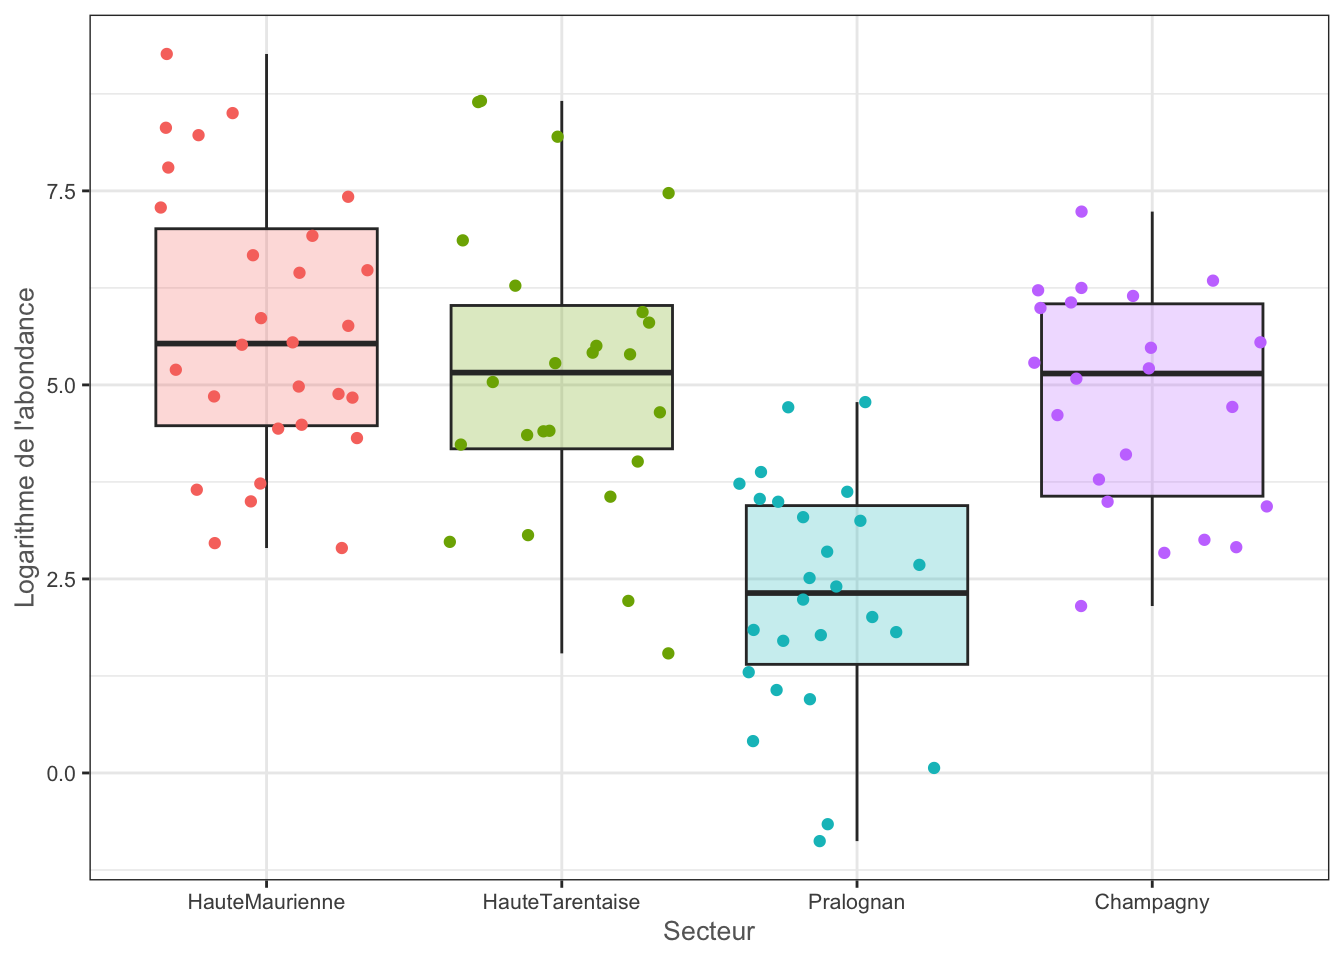
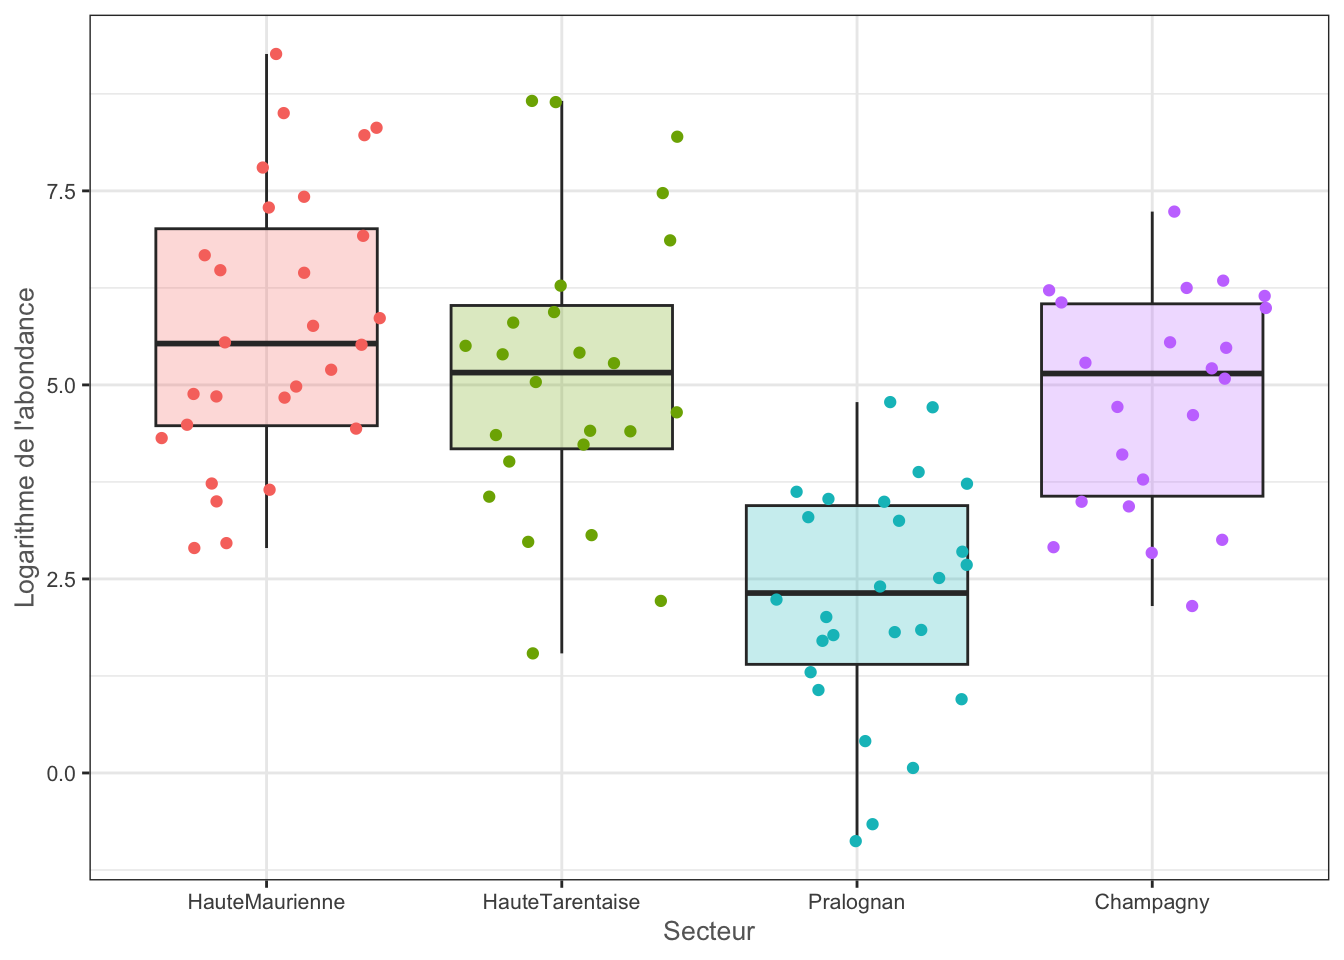
Cours Agroecologie : mise a jour du lien de regression logistique

diff --git a/docs/teaching/intro-analyse-multivariee/Lecture1_RegMulti.html b/docs/teaching/intro-analyse-multivariee/Lecture1_RegMulti.html
@@ -1188,22 +1188,22 @@ Call:
 lm(formula = y ~ x2 + x3 + x4 + x5)
 
 Residuals:
-     Min       1Q   Median       3Q      Max 
--2.82314 -0.80455  0.00918  0.70815  2.79053 
+    Min      1Q  Median      3Q     Max 
+-2.0075 -0.6926 -0.0492  0.6774  2.1740 
 
 Coefficients:
             Estimate Std. Error t value Pr(&gt;|t|)    
-(Intercept) -0.01947    0.11909  -0.163    0.870    
-x2           0.48523    1.65335   0.293    0.770    
-x3           0.82374    0.82305   1.001    0.319    
-x4           0.94394    0.13220   7.140 1.86e-10 ***
-x5           0.24606    0.82286   0.299    0.766    
+(Intercept)  0.11125    0.10460   1.064    0.290    
+x2           0.03309    1.47362   0.022    0.982    
+x3           0.43824    0.73541   0.596    0.553    
+x4           0.82308    0.10723   7.676 1.44e-11 ***
+x5           0.48418    0.72964   0.664    0.509    
 ---
 Signif. codes:  0 '***' 0.001 '**' 0.01 '*' 0.05 '.' 0.1 ' ' 1
 
-Residual standard error: 1.143 on 95 degrees of freedom
-Multiple R-squared:  0.7317,    Adjusted R-squared:  0.7204 
-F-statistic: 64.76 on 4 and 95 DF,  p-value: &lt; 2.2e-16</code></pre>
+Residual standard error: 1.009 on 95 degrees of freedom
+Multiple R-squared:  0.6918,    Adjusted R-squared:  0.6788 
+F-statistic: 53.31 on 4 and 95 DF,  p-value: &lt; 2.2e-16</code></pre>
 </div>
 </div>
 <p>Seule la variable <span class="math inline">\(x_4\)</span> est déclarée pertinente. Les <span class="math inline">\(p\)</span>-valeurs des tests concernant les variables <span class="math inline">\(x_2\)</span> et <span class="math inline">\(x_3\)</span> sont élevées : nous les éliminerions donc à tord. Elles sont “cachées” par <span class="math inline">\(x_4\)</span>.</p>
@@ -1219,21 +1219,21 @@ Call:
 lm(formula = y ~ x2 + x3 + x4)
 
 Residuals:
-    Min      1Q  Median      3Q     Max 
--2.8234 -0.8074  0.0002  0.7005  2.7870 
+     Min       1Q   Median       3Q      Max 
+-2.01343 -0.69926 -0.04555  0.66989  2.14298 
 
 Coefficients:
             Estimate Std. Error t value Pr(&gt;|t|)    
-(Intercept) -0.01364    0.11692  -0.117    0.907    
-x2           0.97864    0.10440   9.374 3.29e-15 ***
-x3           1.06773    0.10727   9.954  &lt; 2e-16 ***
-x4           0.94012    0.13095   7.179 1.48e-10 ***
+(Intercept)  0.12078    0.10331   1.169    0.245    
+x2           1.00901    0.09311  10.836  &lt; 2e-16 ***
+x3           0.92109    0.10643   8.654 1.15e-13 ***
+x4           0.82923    0.10652   7.785 8.08e-12 ***
 ---
 Signif. codes:  0 '***' 0.001 '**' 0.01 '*' 0.05 '.' 0.1 ' ' 1
 
-Residual standard error: 1.137 on 96 degrees of freedom
-Multiple R-squared:  0.7314,    Adjusted R-squared:  0.723 
-F-statistic: 87.15 on 3 and 96 DF,  p-value: &lt; 2.2e-16</code></pre>
+Residual standard error: 1.006 on 96 degrees of freedom
+Multiple R-squared:  0.6904,    Adjusted R-squared:  0.6807 
+F-statistic: 71.35 on 3 and 96 DF,  p-value: &lt; 2.2e-16</code></pre>
 </div>
 </div>
 <p>Sans la présence de la variable <span class="math inline">\(x_5\)</span>, les trois variables <span class="math inline">\(x_2\)</span>, <span class="math inline">\(x_3\)</span> et <span class="math inline">\(x_4\)</span> “deviennent” pertinentes.</p>

diff --git a/docs/teaching/Stat_AE/index.html b/docs/teaching/Stat_AE/index.html
@@ -236,7 +236,7 @@ document.addEventListener("DOMContentLoaded", function () {
 <p>Vous pouvez retrouver ci-dessous les supports de cours, ainsi que les fichiers <code>.Rmd</code> utilisés pour le cours et les TDs. Ils sont susceptibles d’être modifiés (à la marge). Assurez-vous d’avoir des versions suffisament récentes.</p>
 <ul>
 <li><p>Chapitre 1 : Rappel de régression linéaire multiple</p></li>
-<li><p>Chapitre 2 : Régression logistique : Modéliser des données de proportion <a href="../downloads/stat_AE/RegressionLogistique.zip">Documents de cours</a></p></li>
+<li><p>Chapitre 2 : Régression logistique : Modéliser des données de proportion <a href="../../downloads/stat_AE/RegressionLogistique.zip">Documents de cours</a></p></li>
 <li><p>Chapitre 3 : Régression de Poisson : Modéliser des données de comptage</p></li>
 <li><p>Chapitre 4 : Modèles linéaires mixtes</p></li>
 <li><p>Chapitre 5 : Méthodes avancées de réduction de dimension</p></li>
